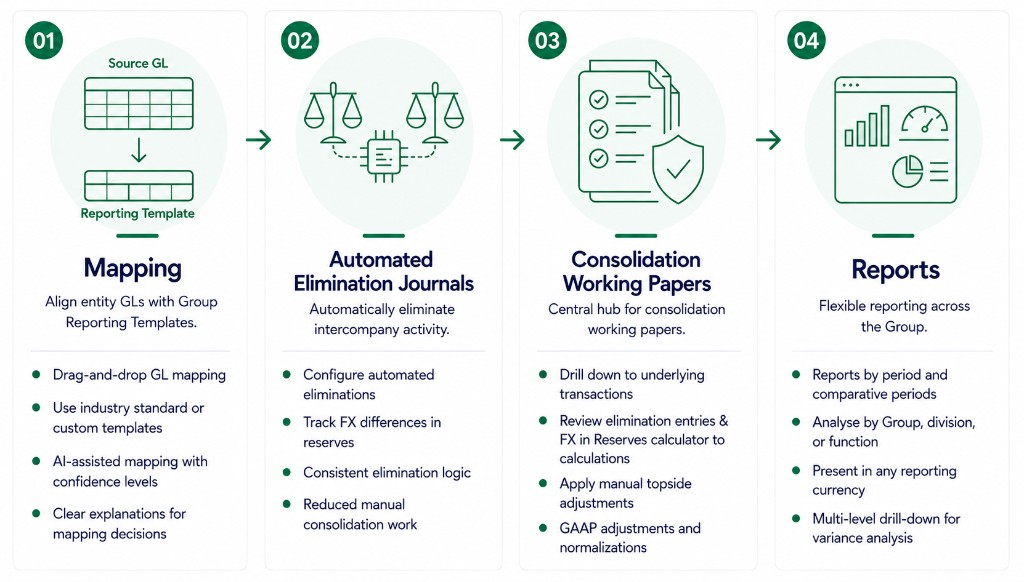
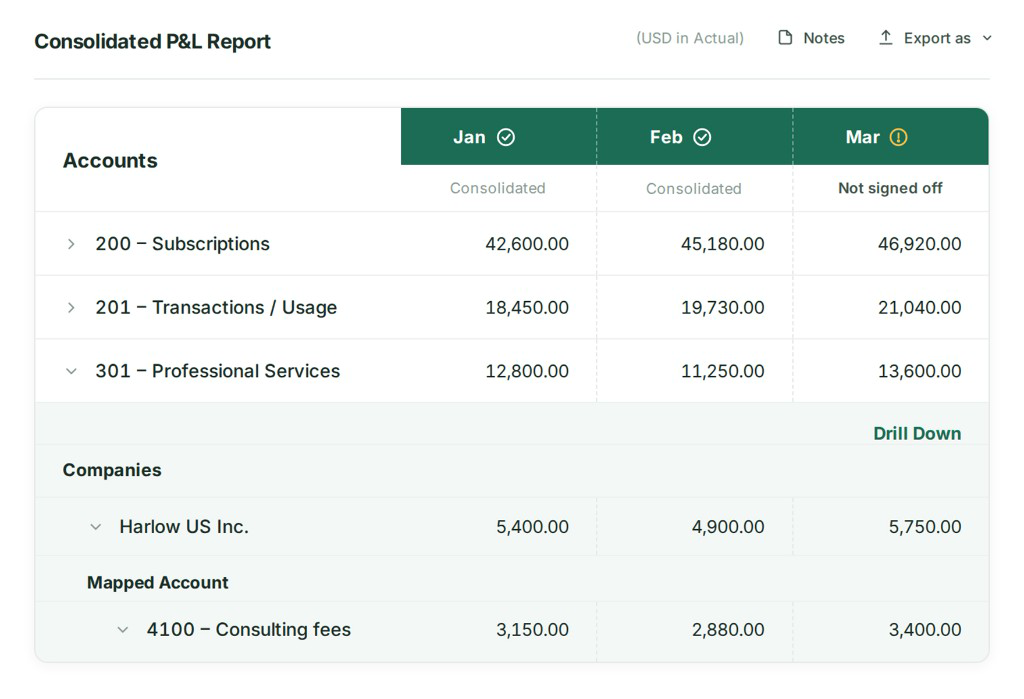
Enhance image handling and styles across modules
- Updated image sources in group planning and reporting modules to include versioning for cache management.
- Improved CSS styles for image rendering and layout in screenshot frames, ensuring better responsiveness and visual consistency.
- Adjusted JavaScript to force GIF reloads in the lightbox for improved user experience.

diff --git a/modules/group-planning.html b/modules/group-planning.html
@@ -39,13 +39,8 @@
       </div>
     </div>
     <div class="mod-hero-media sr">
-      <div class="screenshot-frame screenshot-frame--tall" role="img" aria-label="Group planning workflow placeholder">
-        <div class="screenshot-frame__inner">
-          <div class="screenshot-frame__ic"><svg viewBox="0 0 24 24" fill="none" stroke="currentColor" stroke-width="1.8"><rect x="3" y="5" width="18" height="14" rx="2"/><circle cx="8.5" cy="10.5" r="1.5"/><path d="M21 16l-5.5-5.5L5 20"/></svg></div>
-          <span class="screenshot-frame__label">Group Financial Planning Workflow</span>
-          <p class="screenshot-frame__hint">Replace with GATHER group planning overview screenshot</p>
-          <span class="screenshot-frame__tag">Hero screenshot</span>
-        </div>
+      <div class="screenshot-frame screenshot-frame--tall screenshot-frame--filled">
+        <img src="../assets/images/group-planning-workflow.png?v=20260723e" alt="GATHER.nexus Harlow Group UK 2024 Budget vs Actual report with multi-level drill-down from sales through companies to mapped accounts" width="1018" height="678" loading="eager" decoding="async">
       </div>
     </div>
   </div>
@@ -85,13 +80,8 @@
     </div>
     <div class="mod-step-media sr sr-d1">
       <div class="mod-step-screenshots">
-        <div class="screenshot-frame screenshot-frame--tall" role="img" aria-label="Divisional budgets screenshot placeholder">
-          <div class="screenshot-frame__inner">
-            <div class="screenshot-frame__ic"><svg viewBox="0 0 24 24" fill="none" stroke="currentColor" stroke-width="1.8"><rect x="3" y="5" width="18" height="14" rx="2"/><circle cx="8.5" cy="10.5" r="1.5"/><path d="M21 16l-5.5-5.5L5 20"/></svg></div>
-            <span class="screenshot-frame__label">Create Divisional/Functional Budgets</span>
-            <p class="screenshot-frame__hint">Replace with GATHER divisional budget screenshot</p>
-            <span class="screenshot-frame__tag">Step 1 screenshot</span>
-          </div>
+        <div class="screenshot-frame screenshot-frame--tall screenshot-frame--filled">
+          <img src="../assets/images/group-budget-by-class.png?v=20260723a" alt="GATHER.nexus Group Budget by Group Class showing Harlow Group FY2025 divisional budgets for Sales, Operations, Technology, and Admin rolled up to one Group total" loading="lazy" decoding="async">
         </div>
       </div>
     </div>
@@ -113,13 +103,8 @@
     </div>
     <div class="mod-step-media sr sr-d1">
       <div class="mod-step-screenshots">
-        <div class="screenshot-frame screenshot-frame--tall" role="img" aria-label="Group budget roll-up screenshot placeholder">
-          <div class="screenshot-frame__inner">
-            <div class="screenshot-frame__ic"><svg viewBox="0 0 24 24" fill="none" stroke="currentColor" stroke-width="1.8"><rect x="3" y="5" width="18" height="14" rx="2"/><circle cx="8.5" cy="10.5" r="1.5"/><path d="M21 16l-5.5-5.5L5 20"/></svg></div>
-            <span class="screenshot-frame__label">Roll Up to Group Budget</span>
-            <p class="screenshot-frame__hint">Replace with GATHER group budget roll-up screenshot</p>
-            <span class="screenshot-frame__tag">Step 2 screenshot</span>
-          </div>
+        <div class="screenshot-frame screenshot-frame--tall screenshot-frame--filled">
+          <img src="../assets/images/group-budget-rollup.png?v=20260723a" alt="GATHER.nexus Group Financial Planning showing Harlow Group budget roll-up from Sales and Admin group classes into the FY2025 Group Budget with Q1 revenue totals" loading="lazy" decoding="async">
         </div>
       </div>
     </div>

diff --git a/assets/page-extensions.css b/assets/page-extensions.css
@@ -159,11 +159,21 @@ ul { list-style: none; }
   display: block;
 }
 .screenshot-frame--filled::before { display: none; }
-.screenshot-frame--filled img {
+.screenshot-frame--filled picture {
+  display: block;
+  width: 100%;
+}
+.screenshot-frame--filled img,
+.screenshot-frame--filled picture img {
   display: block;
   width: 100%;
   height: auto;
+  max-width: 100%;
   border-radius: inherit;
+  object-fit: contain;
+  /* Keep GIF / animated media playing; avoid layout tricks that freeze frames */
+  image-rendering: auto;
+  background: #fff;
 }
 .screenshot-frame__inner { position: relative; z-index: 1; display: flex; flex-direction: column; align-items: center; gap: 10px; max-width: 320px; }
 .screenshot-frame__ic {

diff --git a/modules/group-reporting.html b/modules/group-reporting.html
@@ -39,13 +39,8 @@
       </div>
     </div>
     <div class="mod-hero-media sr">
-      <div class="screenshot-frame screenshot-frame--tall" role="img" aria-label="Group reporting workflow placeholder">
-        <div class="screenshot-frame__inner">
-          <div class="screenshot-frame__ic"><svg viewBox="0 0 24 24" fill="none" stroke="currentColor" stroke-width="1.8"><rect x="3" y="5" width="18" height="14" rx="2"/><circle cx="8.5" cy="10.5" r="1.5"/><path d="M21 16l-5.5-5.5L5 20"/></svg></div>
-          <span class="screenshot-frame__label">Group Financial Reporting Workflow</span>
-          <p class="screenshot-frame__hint">Replace with GATHER group reporting overview screenshot</p>
-          <span class="screenshot-frame__tag">Hero screenshot</span>
-        </div>
+      <div class="screenshot-frame screenshot-frame--tall screenshot-frame--filled">
+        <img src="../assets/images/group-reporting-workflow.png?v=20260723e" alt="GATHER.nexus Consolidated P&amp;L Report showing subscriptions, transactions, and professional services with drill-down by company and mapped account across Jan–Mar" width="1024" height="699" loading="eager" decoding="async">
       </div>
     </div>
   </div>

diff --git a/assets/page-extensions.js b/assets/page-extensions.js
@@ -174,7 +174,13 @@
 
     function openZoom(img) {
       lastFocus = document.activeElement;
-      lightboxImg.src = img.currentSrc || img.src;
+      var src = img.currentSrc || img.src || '';
+      /* Force GIF reload so animation restarts in the lightbox */
+      if (/\.gif(\?|#|$)/i.test(src)) {
+        src = src.replace(/([?&])v=[^&]*&?/, '$1').replace(/[?&]$/, '');
+        src += (src.indexOf('?') === -1 ? '?' : '&') + 'zoom=' + Date.now();
+      }
+      lightboxImg.src = src;
       lightboxImg.alt = img.alt || 'Enlarged image';
       lightbox.hidden = false;
       void lightbox.offsetWidth;

diff --git a/HomePage.html b/HomePage.html
@@ -796,7 +796,10 @@ ul{list-style:none}
 .journey-visual-frame img{
   width:100%;height:auto;max-height:min(400px,44vh);object-fit:contain;
   border-radius:calc(var(--r-md) - 4px);display:block;
+  image-rendering:auto;background:#fff;
 }
+.journey-visual-frame picture{display:block;width:100%}
+.journey-visual-frame picture img{width:100%;height:auto;max-height:min(400px,44vh);object-fit:contain}
 .journey-flow-mini,.journey-module-steps{
   display:flex;align-items:center;justify-content:center;gap:8px;flex-wrap:wrap;
 }
@@ -1656,7 +1659,7 @@ footer{background:var(--ink);padding:72px 0 28px;color:var(--text-light)}
             </aside></div>
           <div class="journey-visual-hero"><div class="journey-visual-frame">
                 <div class="journey-visual-caption"><span>Module 02</span><span>Consolidation workflow</span></div>
-                <img src="assets/images/group-reporting-workflow.png" alt="Group financial reporting workflow from mapping through reports" loading="lazy" decoding="async">
+                <img src="assets/images/group-reporting-workflow.png?v=20260723e" alt="Group financial reporting workflow from mapping through reports" loading="lazy" decoding="async">
               </div></div>
           </div>
         </article>
@@ -1677,7 +1680,7 @@ footer{background:var(--ink);padding:72px 0 28px;color:var(--text-light)}
             </aside></div>
           <div class="journey-visual-hero"><div class="journey-visual-frame">
                 <div class="journey-visual-caption"><span>Module 05</span><span>Group Financial Planning</span></div>
-                <img src="assets/images/group-planning-workflow.png" alt="Group Financial Planning workflow with budget roll-up and actuals vs budget analysis" loading="lazy" decoding="async">
+                <img src="assets/images/group-planning-workflow.png?v=20260723e" alt="Group Financial Planning workflow with budget roll-up and actuals vs budget analysis" loading="lazy" decoding="async">
               </div></div>
           </div>
         </article>

diff --git a/index.html b/index.html
@@ -796,7 +796,10 @@ ul{list-style:none}
 .journey-visual-frame img{
   width:100%;height:auto;max-height:min(400px,44vh);object-fit:contain;
   border-radius:calc(var(--r-md) - 4px);display:block;
+  image-rendering:auto;background:#fff;
 }
+.journey-visual-frame picture{display:block;width:100%}
+.journey-visual-frame picture img{width:100%;height:auto;max-height:min(400px,44vh);object-fit:contain}
 .journey-flow-mini,.journey-module-steps{
   display:flex;align-items:center;justify-content:center;gap:8px;flex-wrap:wrap;
 }
@@ -1656,7 +1659,7 @@ footer{background:var(--ink);padding:72px 0 28px;color:var(--text-light)}
             </aside></div>
           <div class="journey-visual-hero"><div class="journey-visual-frame">
                 <div class="journey-visual-caption"><span>Module 02</span><span>Consolidation workflow</span></div>
-                <img src="assets/images/group-reporting-workflow.png" alt="Group financial reporting workflow from mapping through reports" loading="lazy" decoding="async">
+                <img src="assets/images/group-reporting-workflow.png?v=20260723e" alt="Group financial reporting workflow from mapping through reports" loading="lazy" decoding="async">
               </div></div>
           </div>
         </article>
@@ -1677,7 +1680,7 @@ footer{background:var(--ink);padding:72px 0 28px;color:var(--text-light)}
             </aside></div>
           <div class="journey-visual-hero"><div class="journey-visual-frame">
                 <div class="journey-visual-caption"><span>Module 05</span><span>Group Financial Planning</span></div>
-                <img src="assets/images/group-planning-workflow.png" alt="Group Financial Planning workflow with budget roll-up and actuals vs budget analysis" loading="lazy" decoding="async">
+                <img src="assets/images/group-planning-workflow.png?v=20260723e" alt="Group Financial Planning workflow with budget roll-up and actuals vs budget analysis" loading="lazy" decoding="async">
               </div></div>
           </div>
         </article>